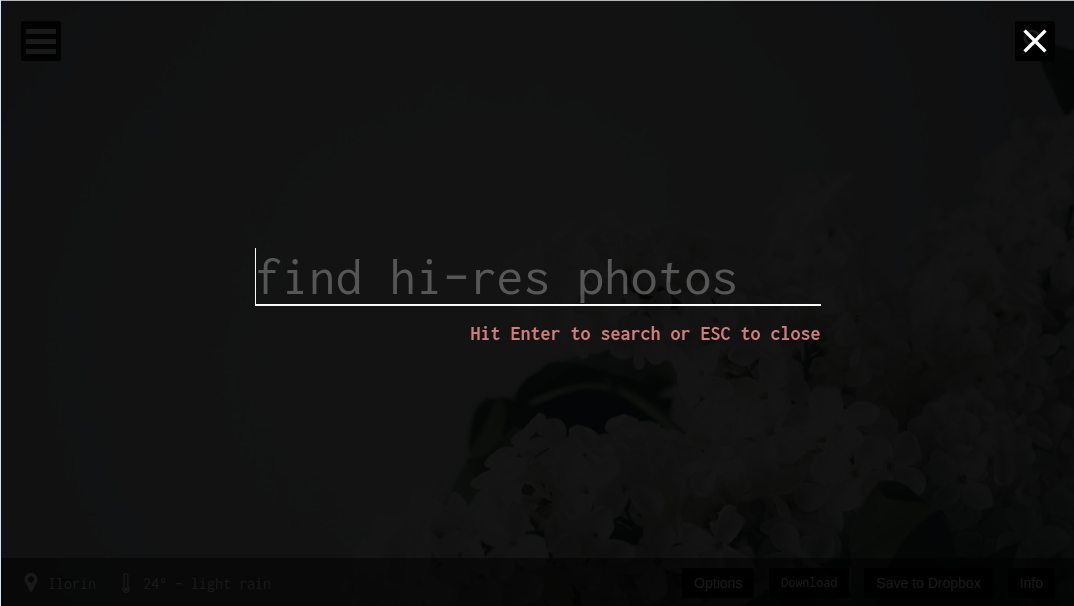
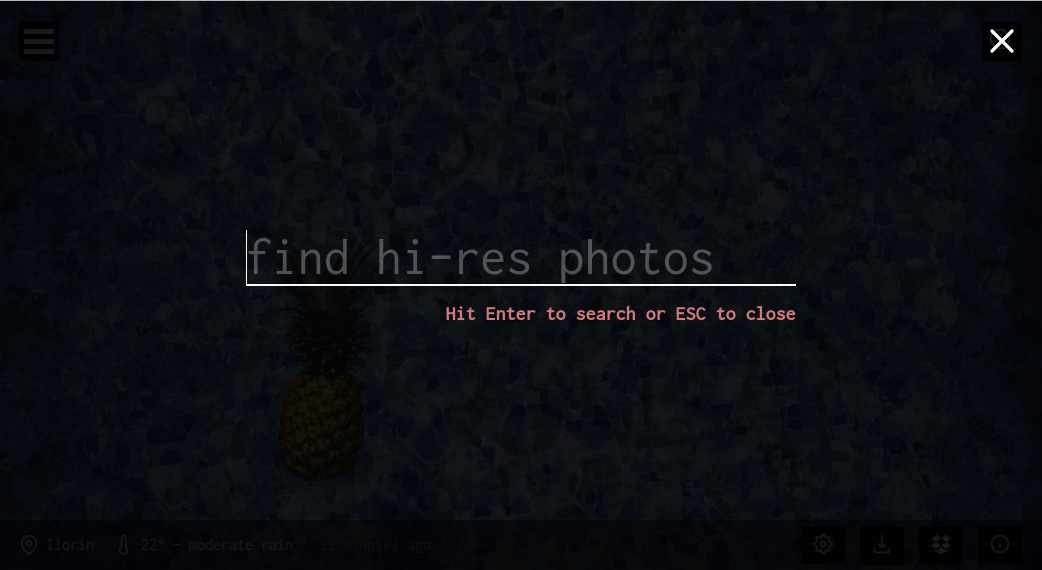
Update screenshots

Changed region(s): [[0.215, 0.4175, 0.7678, 0.507], [0.4299, 0.5368, 0.7678, 0.5667], [0.952, 0.0298, 0.9827, 0.0895]]

diff --git a/index.html b/index.html
@@ -73,7 +73,7 @@
         <div class="wrapper">
           <div class="row">
             <div class="eight columns">
-              <img src="images/search.png" alt="Search for free hi-res photos">
+              <img src="images/search.jpg" alt="Search for free hi-res photos">
             </div>
             <div class="four columns">
               <h2>Search for free hi-res photos</h2>
